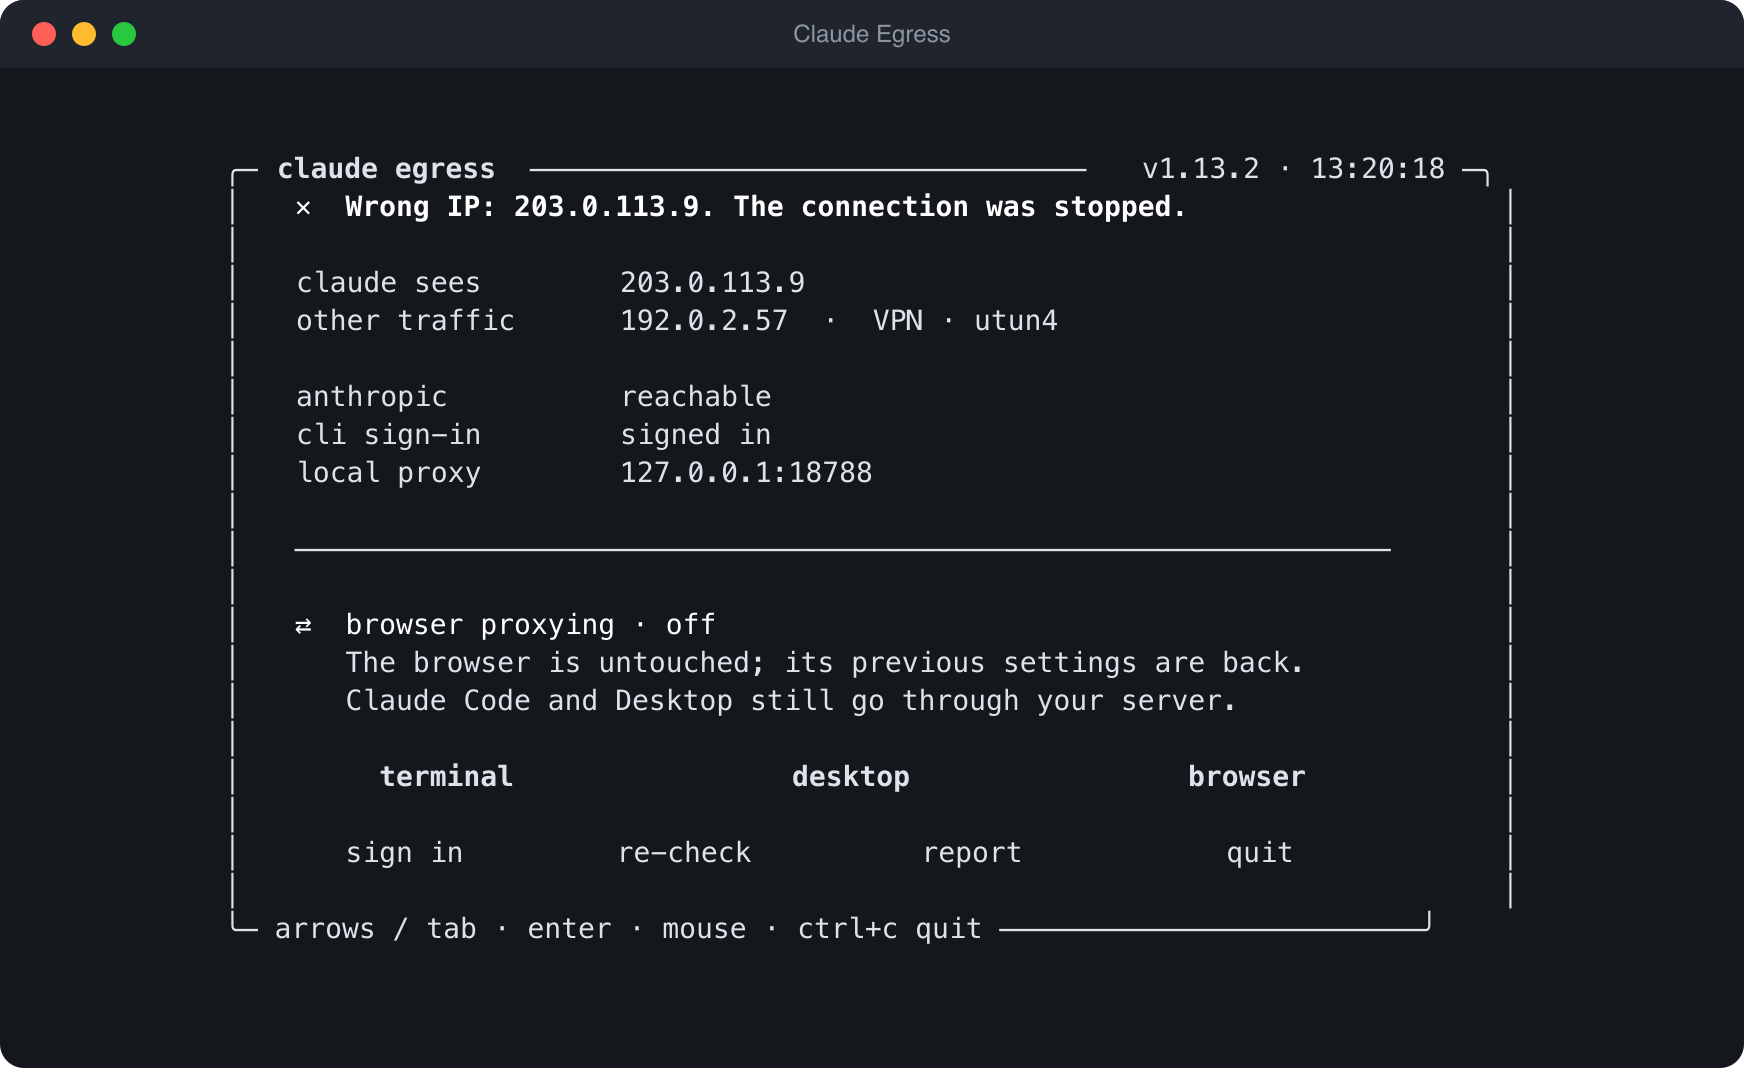
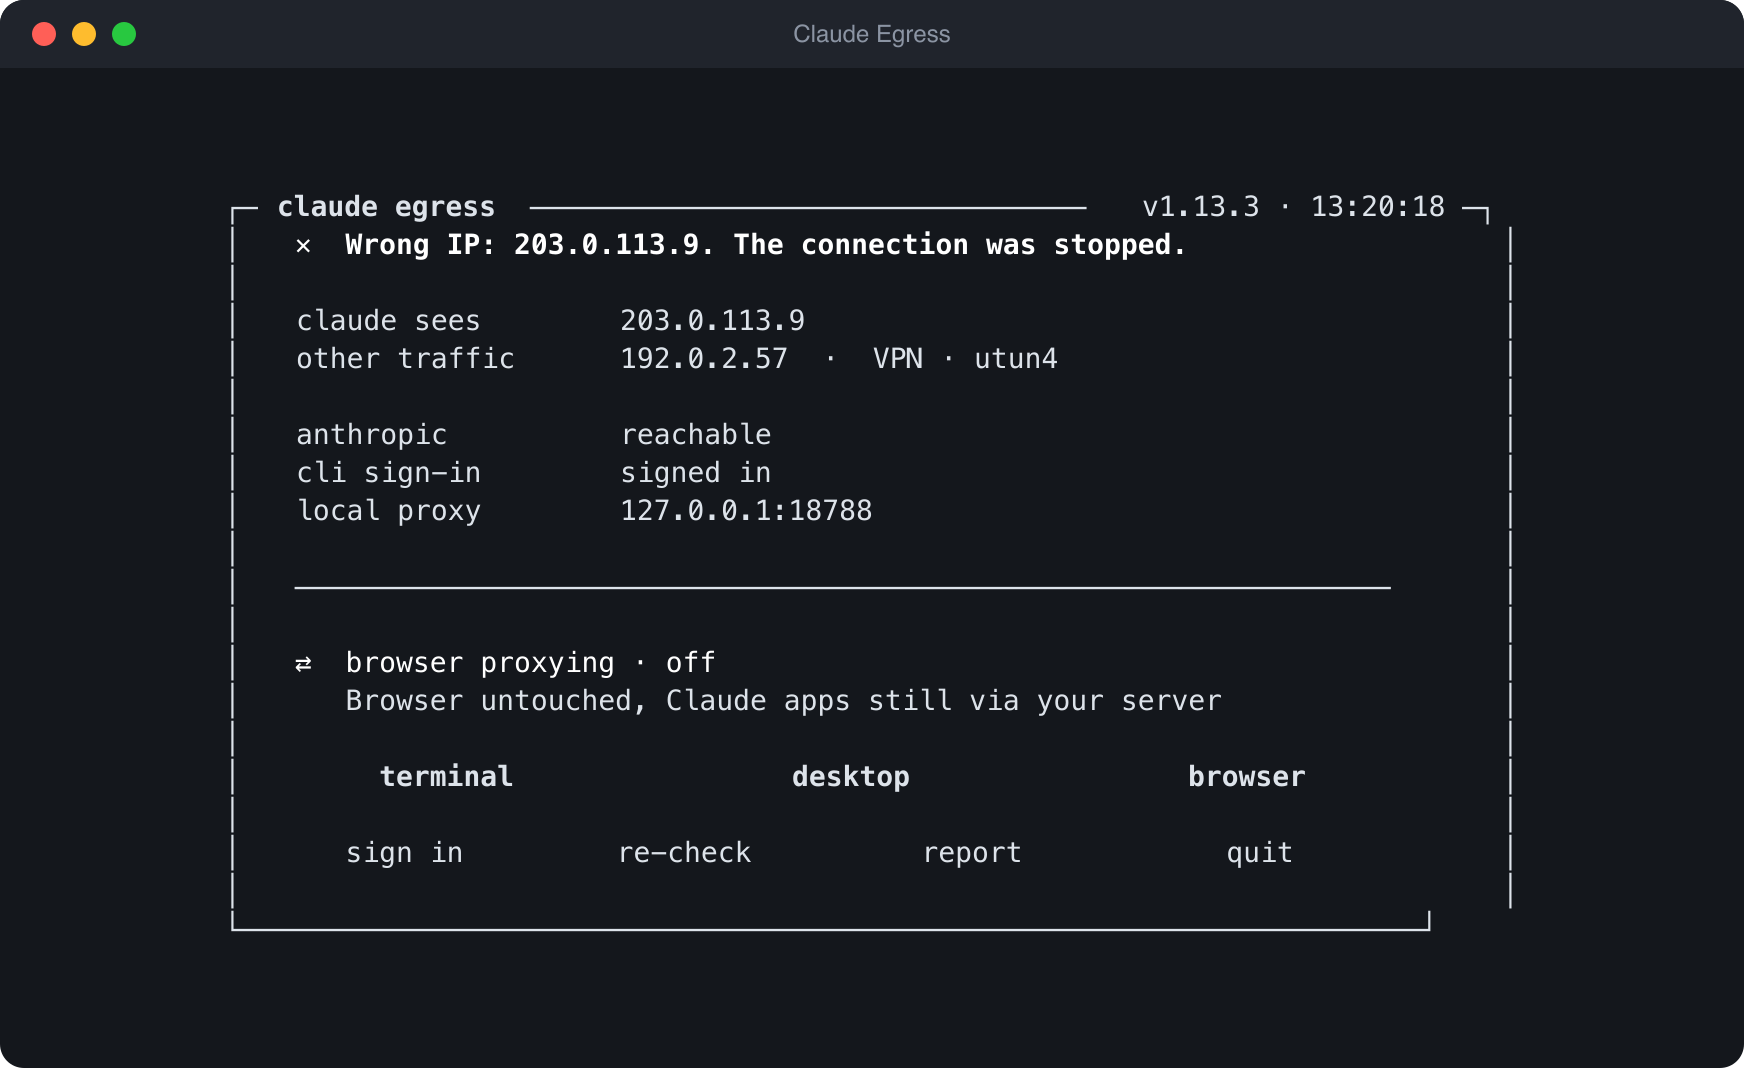
Claude Egress 1.13.3

diff --git a/CHANGELOG.md b/CHANGELOG.md
@@ -2,6 +2,12 @@
 
 Файл проверок — [ACCEPTANCE.md](ACCEPTANCE.md). Здесь только то, что меняется для пользователя.
 
+## 1.13.3
+
+- Прямые углы рамки: скруглённые не смыкались с линиями в части шрифтов.
+- Снизу меньше текста: убрана подсказка по управлению, пояснение режима
+  браузера — одна строка.
+
 ## 1.13.2
 
 - Окно — компактная карточка шириной до 72 колонок по центру терминала,
